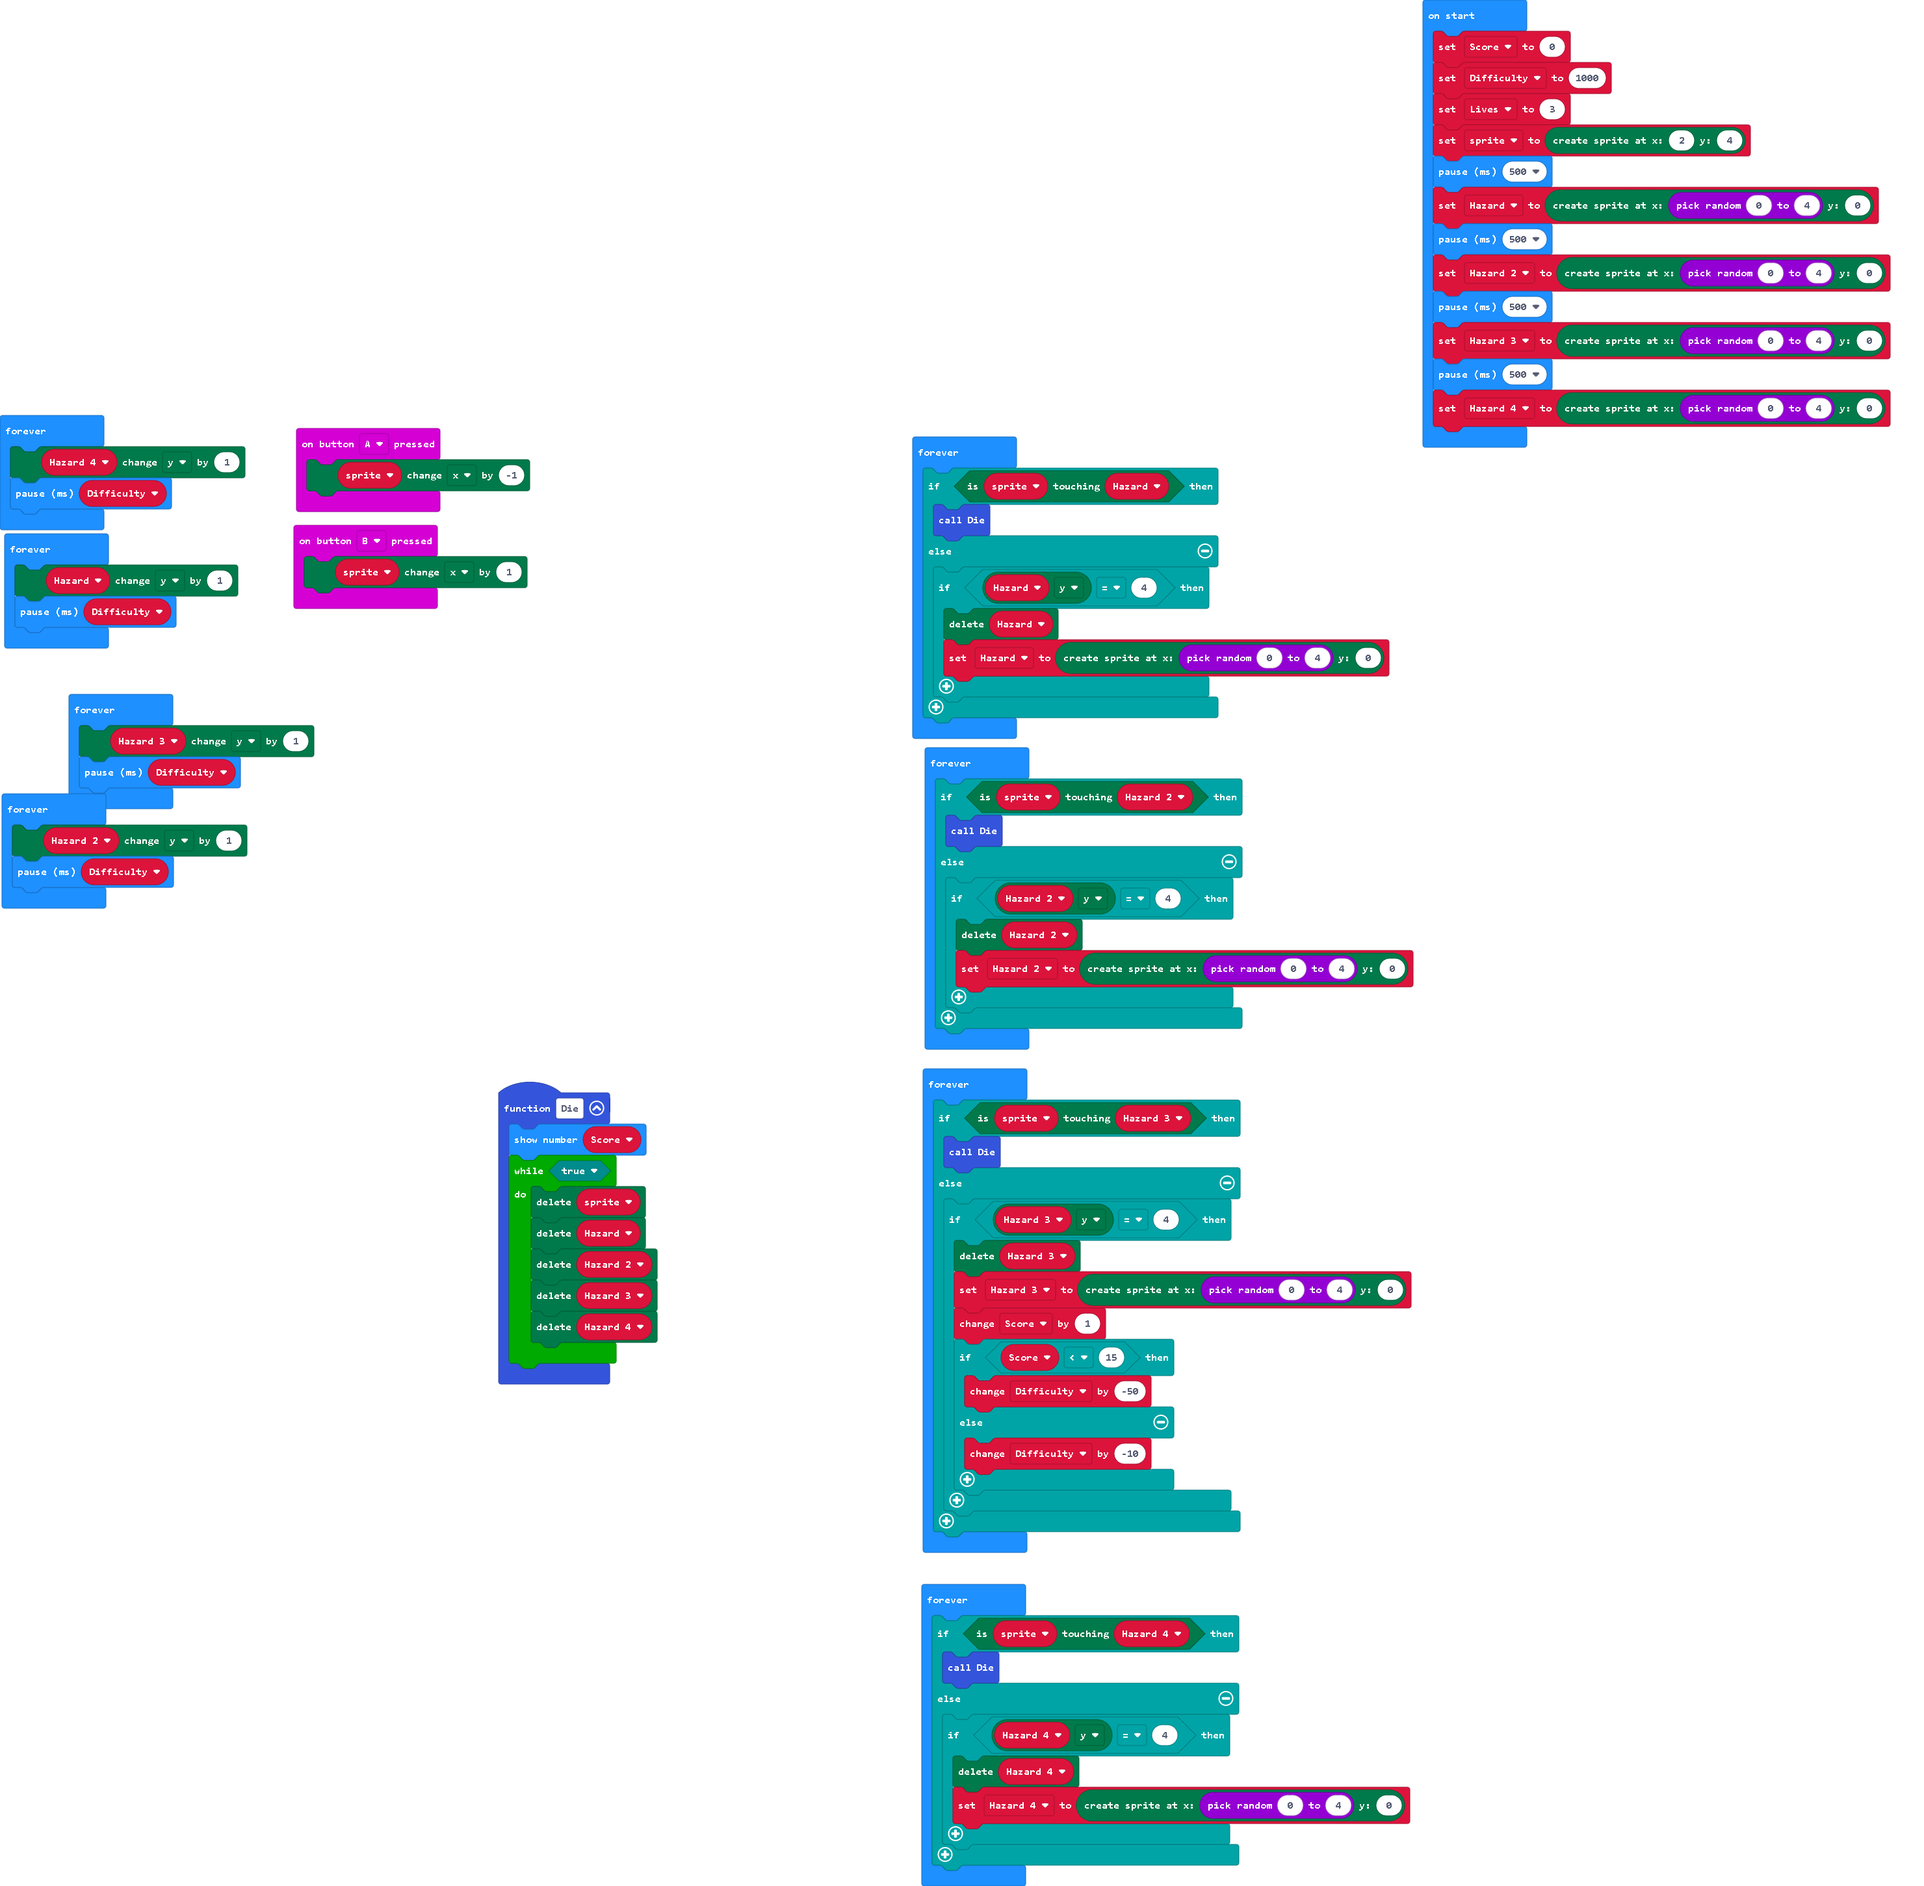
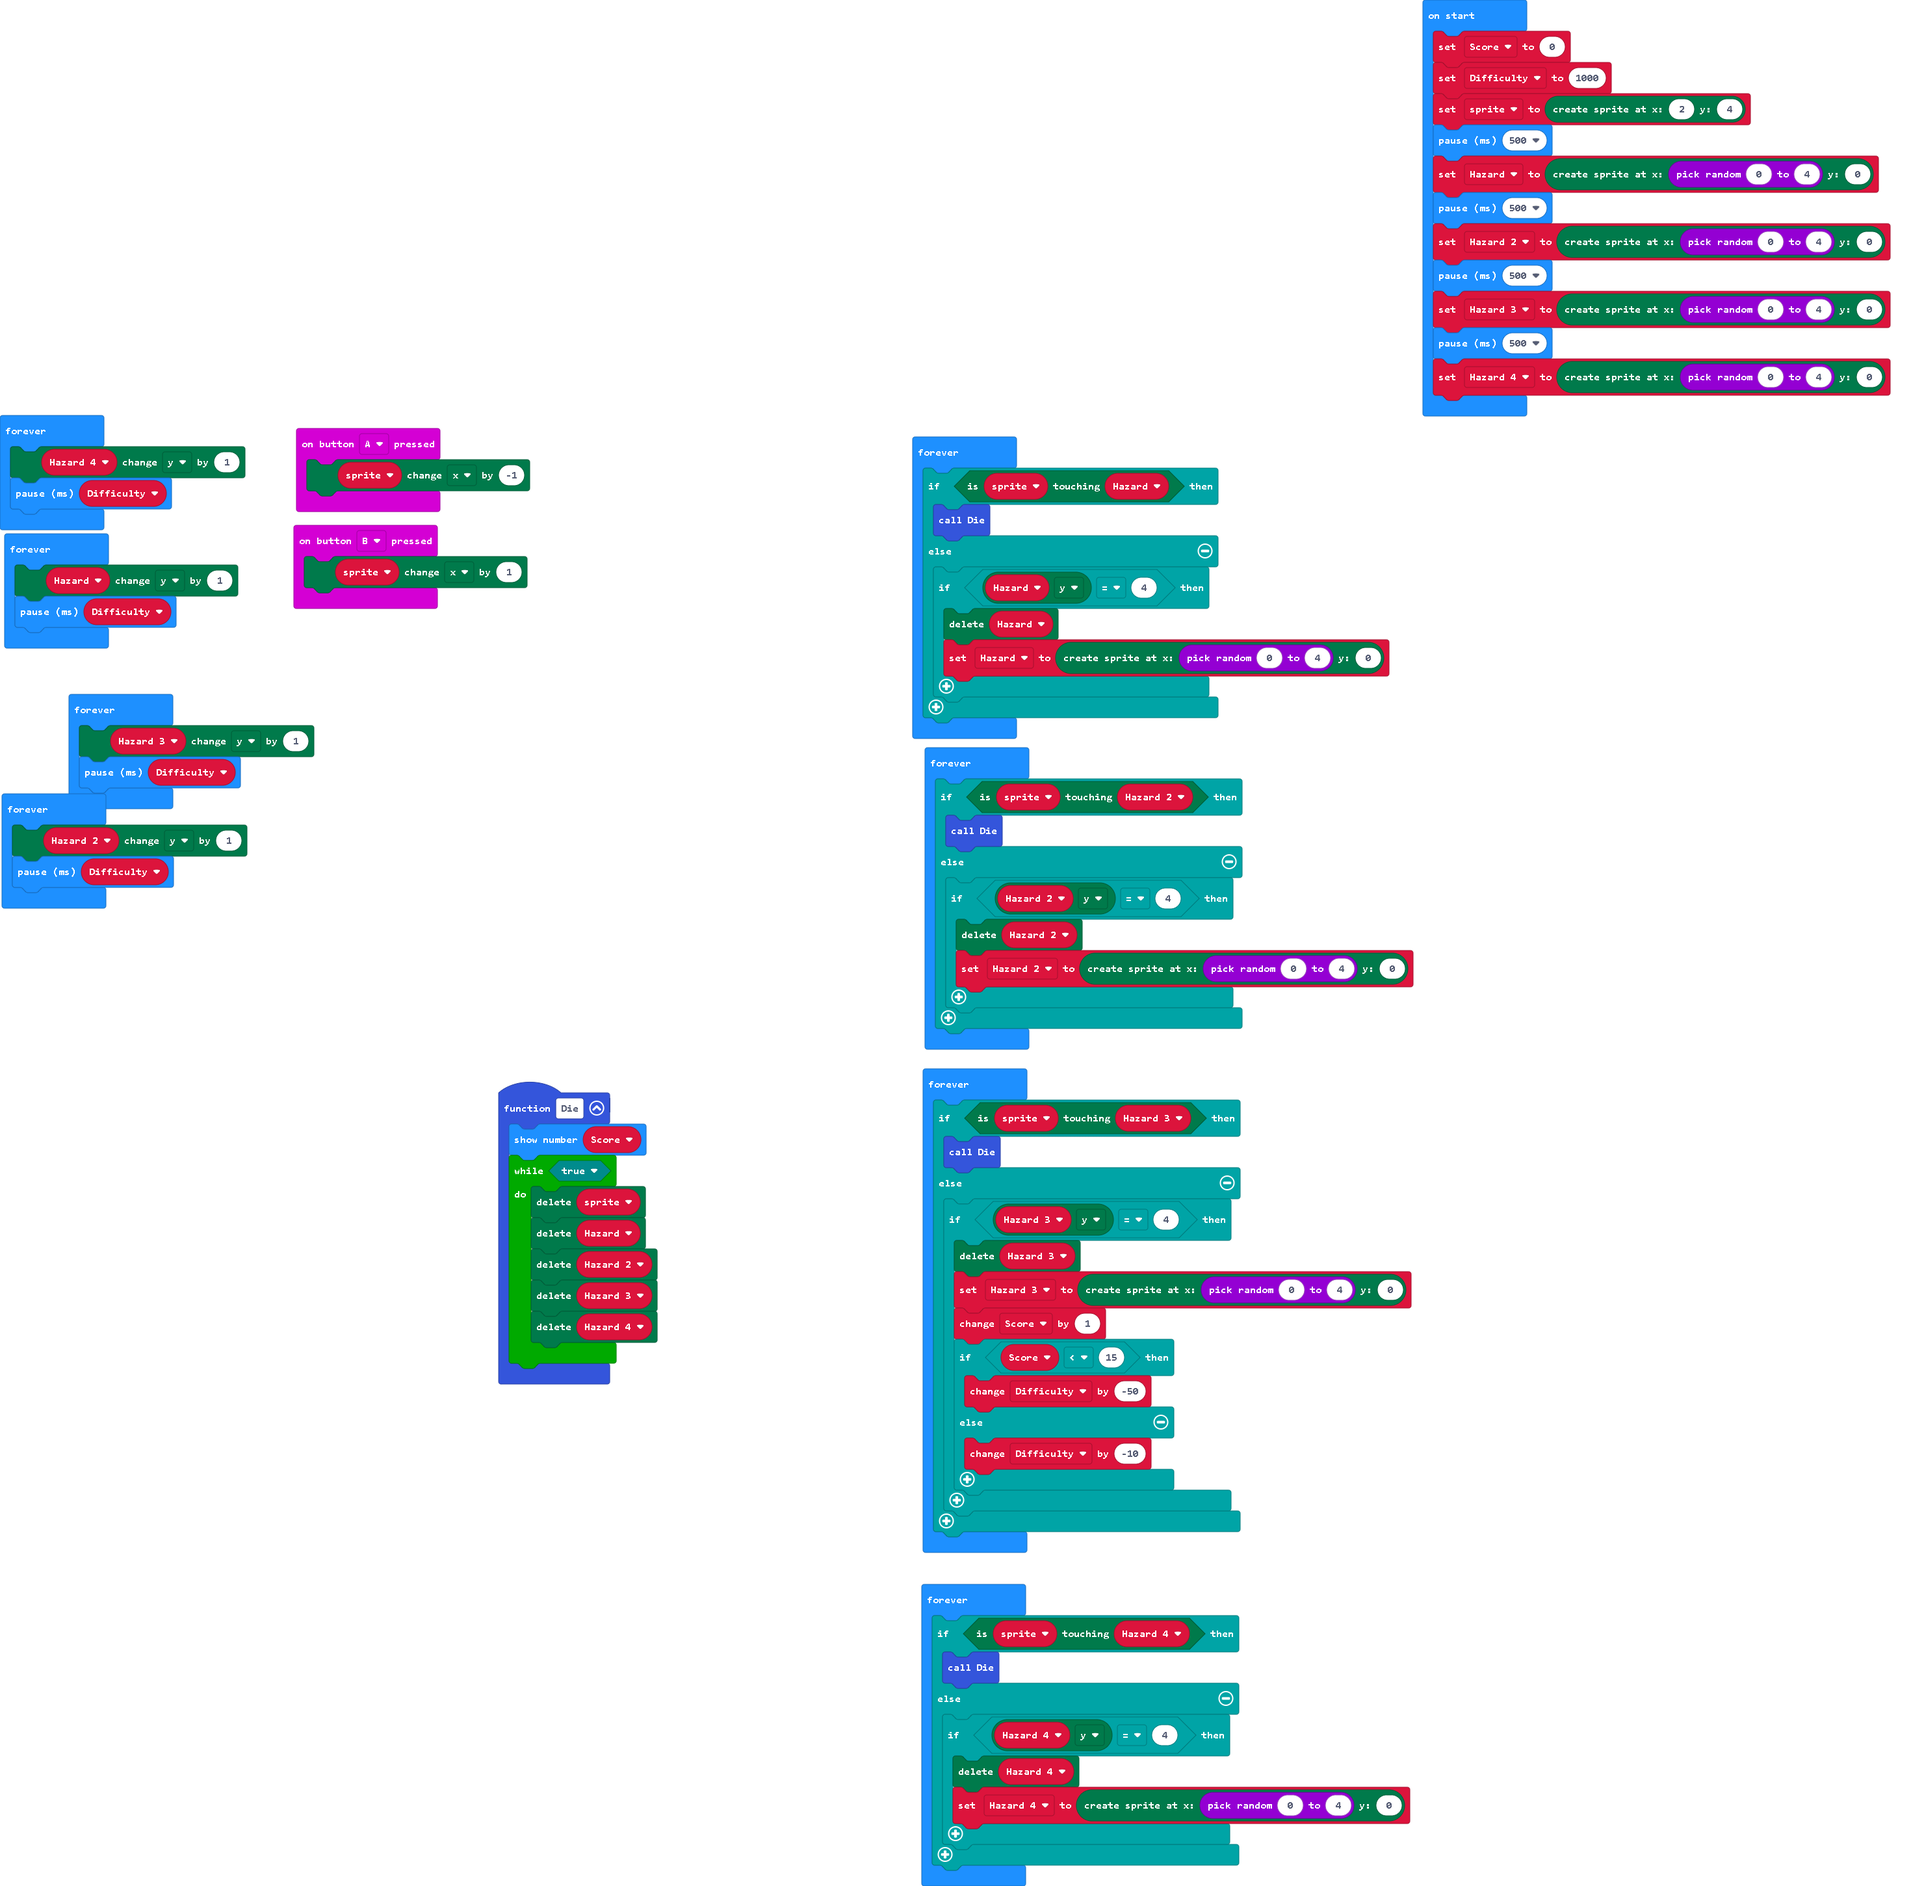
Update main.blocks, main.ts

Changed region(s): [[0.7149, 0.031, 0.9946, 0.2482]]

diff --git a/main.ts b/main.ts
@@ -22,7 +22,6 @@ let sprite: game.LedSprite = null
 let Score = 0
 Score = 0
 let Difficulty = 1000
-let Lives = 3
 sprite = game.createSprite(2, 4)
 basic.pause(500)
 Hazard = game.createSprite(randint(0, 4), 0)
